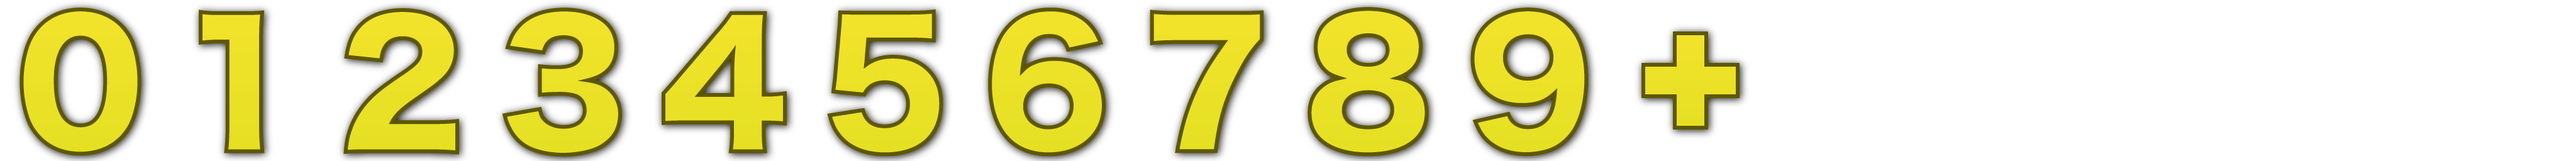
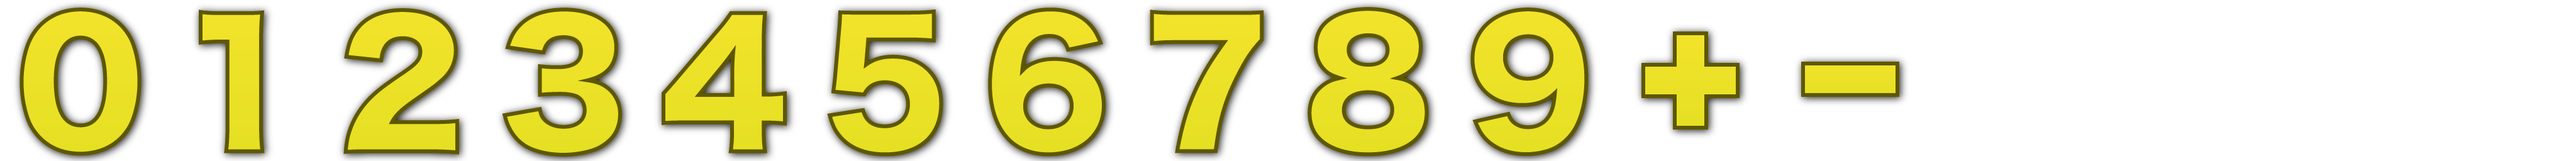
マイナス符号の画像を追加した

Changed region(s): [[0.6875, 0.3438, 0.75, 0.6562]]

diff --git a/stories/battery-correct.stories.js b/stories/battery-correct.stories.js
@@ -15,6 +15,10 @@ export const player = (): HTMLElement=> {
       .chain(delay(1000))
       .chain(batteryCorrect.hidden())
       .chain(delay(1000))
+      .chain(batteryCorrect.show(-1))
+      .chain(delay(1000))
+      .chain(batteryCorrect.hidden())
+      .chain(delay(1000))
       .loop();
     return [batteryCorrect.getObject3D()];
   });
@@ -26,6 +30,10 @@ export const enemy = (): HTMLElement=> {
   const stub = new TDGameObjectStub((resources, listener) => {
     const batteryCorrect = enemyBatteryCorrect(resources, listener);
     batteryCorrect.show(1)
+      .chain(delay(1000))
+      .chain(batteryCorrect.hidden())
+      .chain(delay(1000))
+      .chain(batteryCorrect.show(-1))
       .chain(delay(1000))
       .chain(batteryCorrect.hidden())
       .chain(delay(1000))
